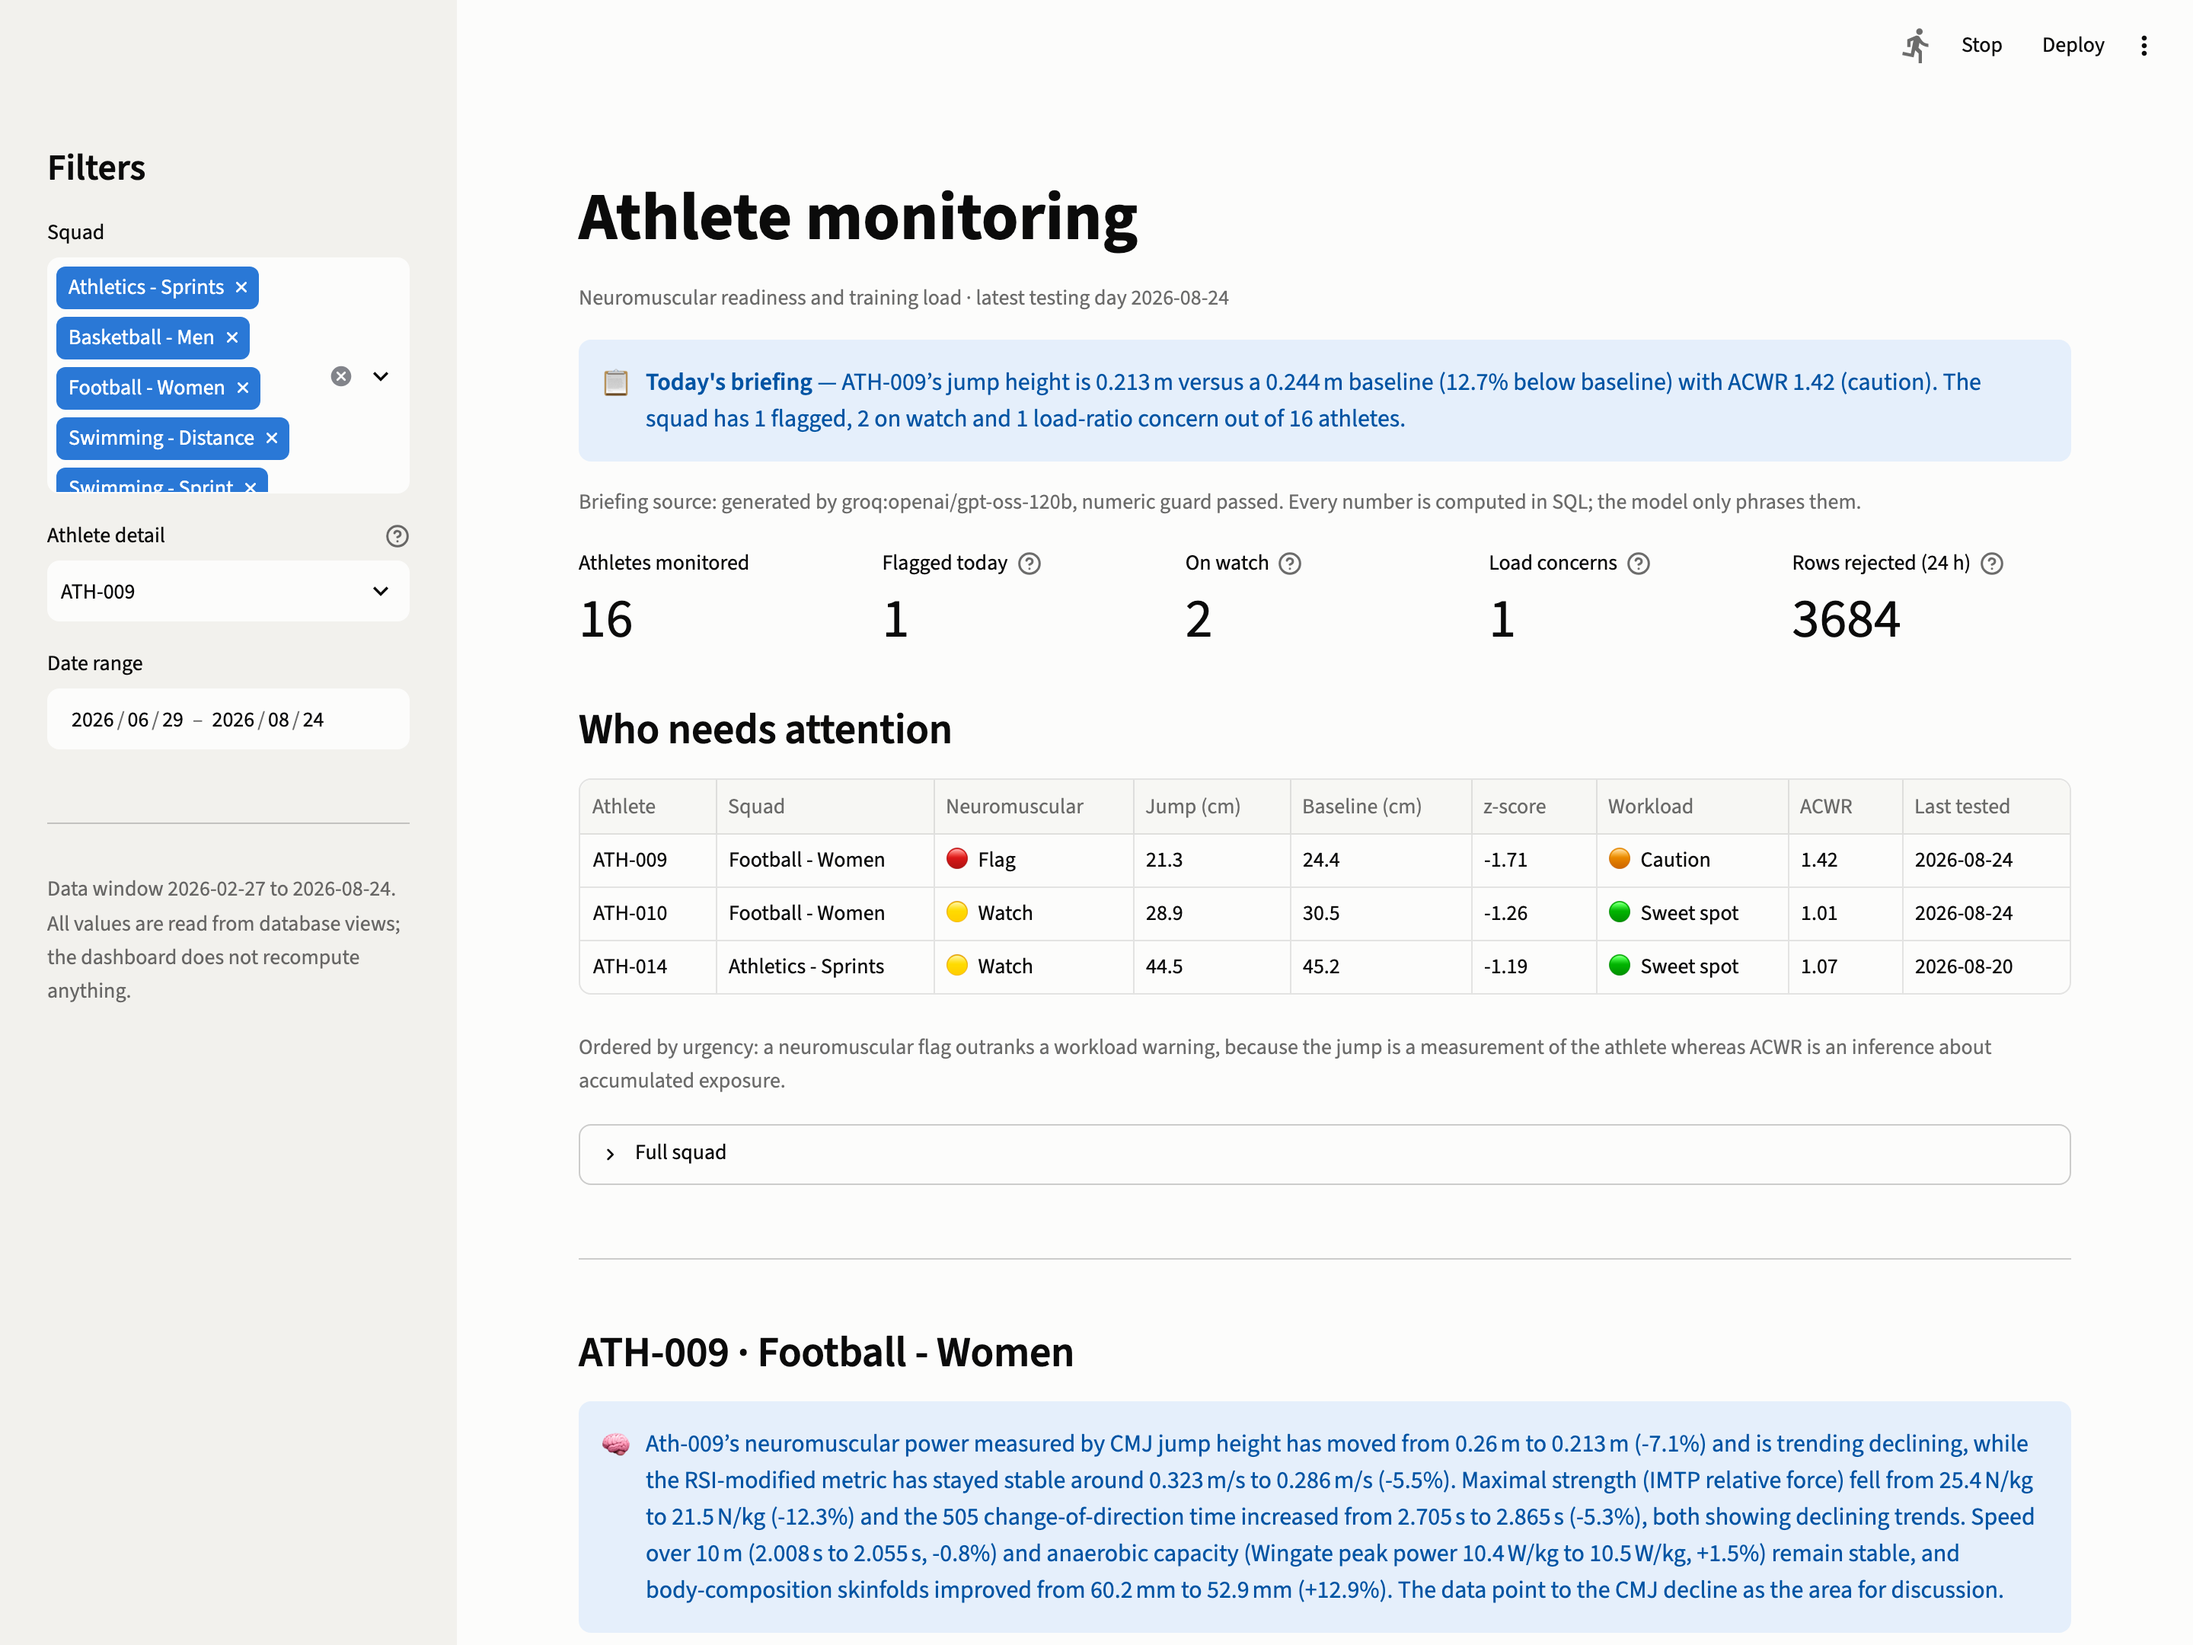
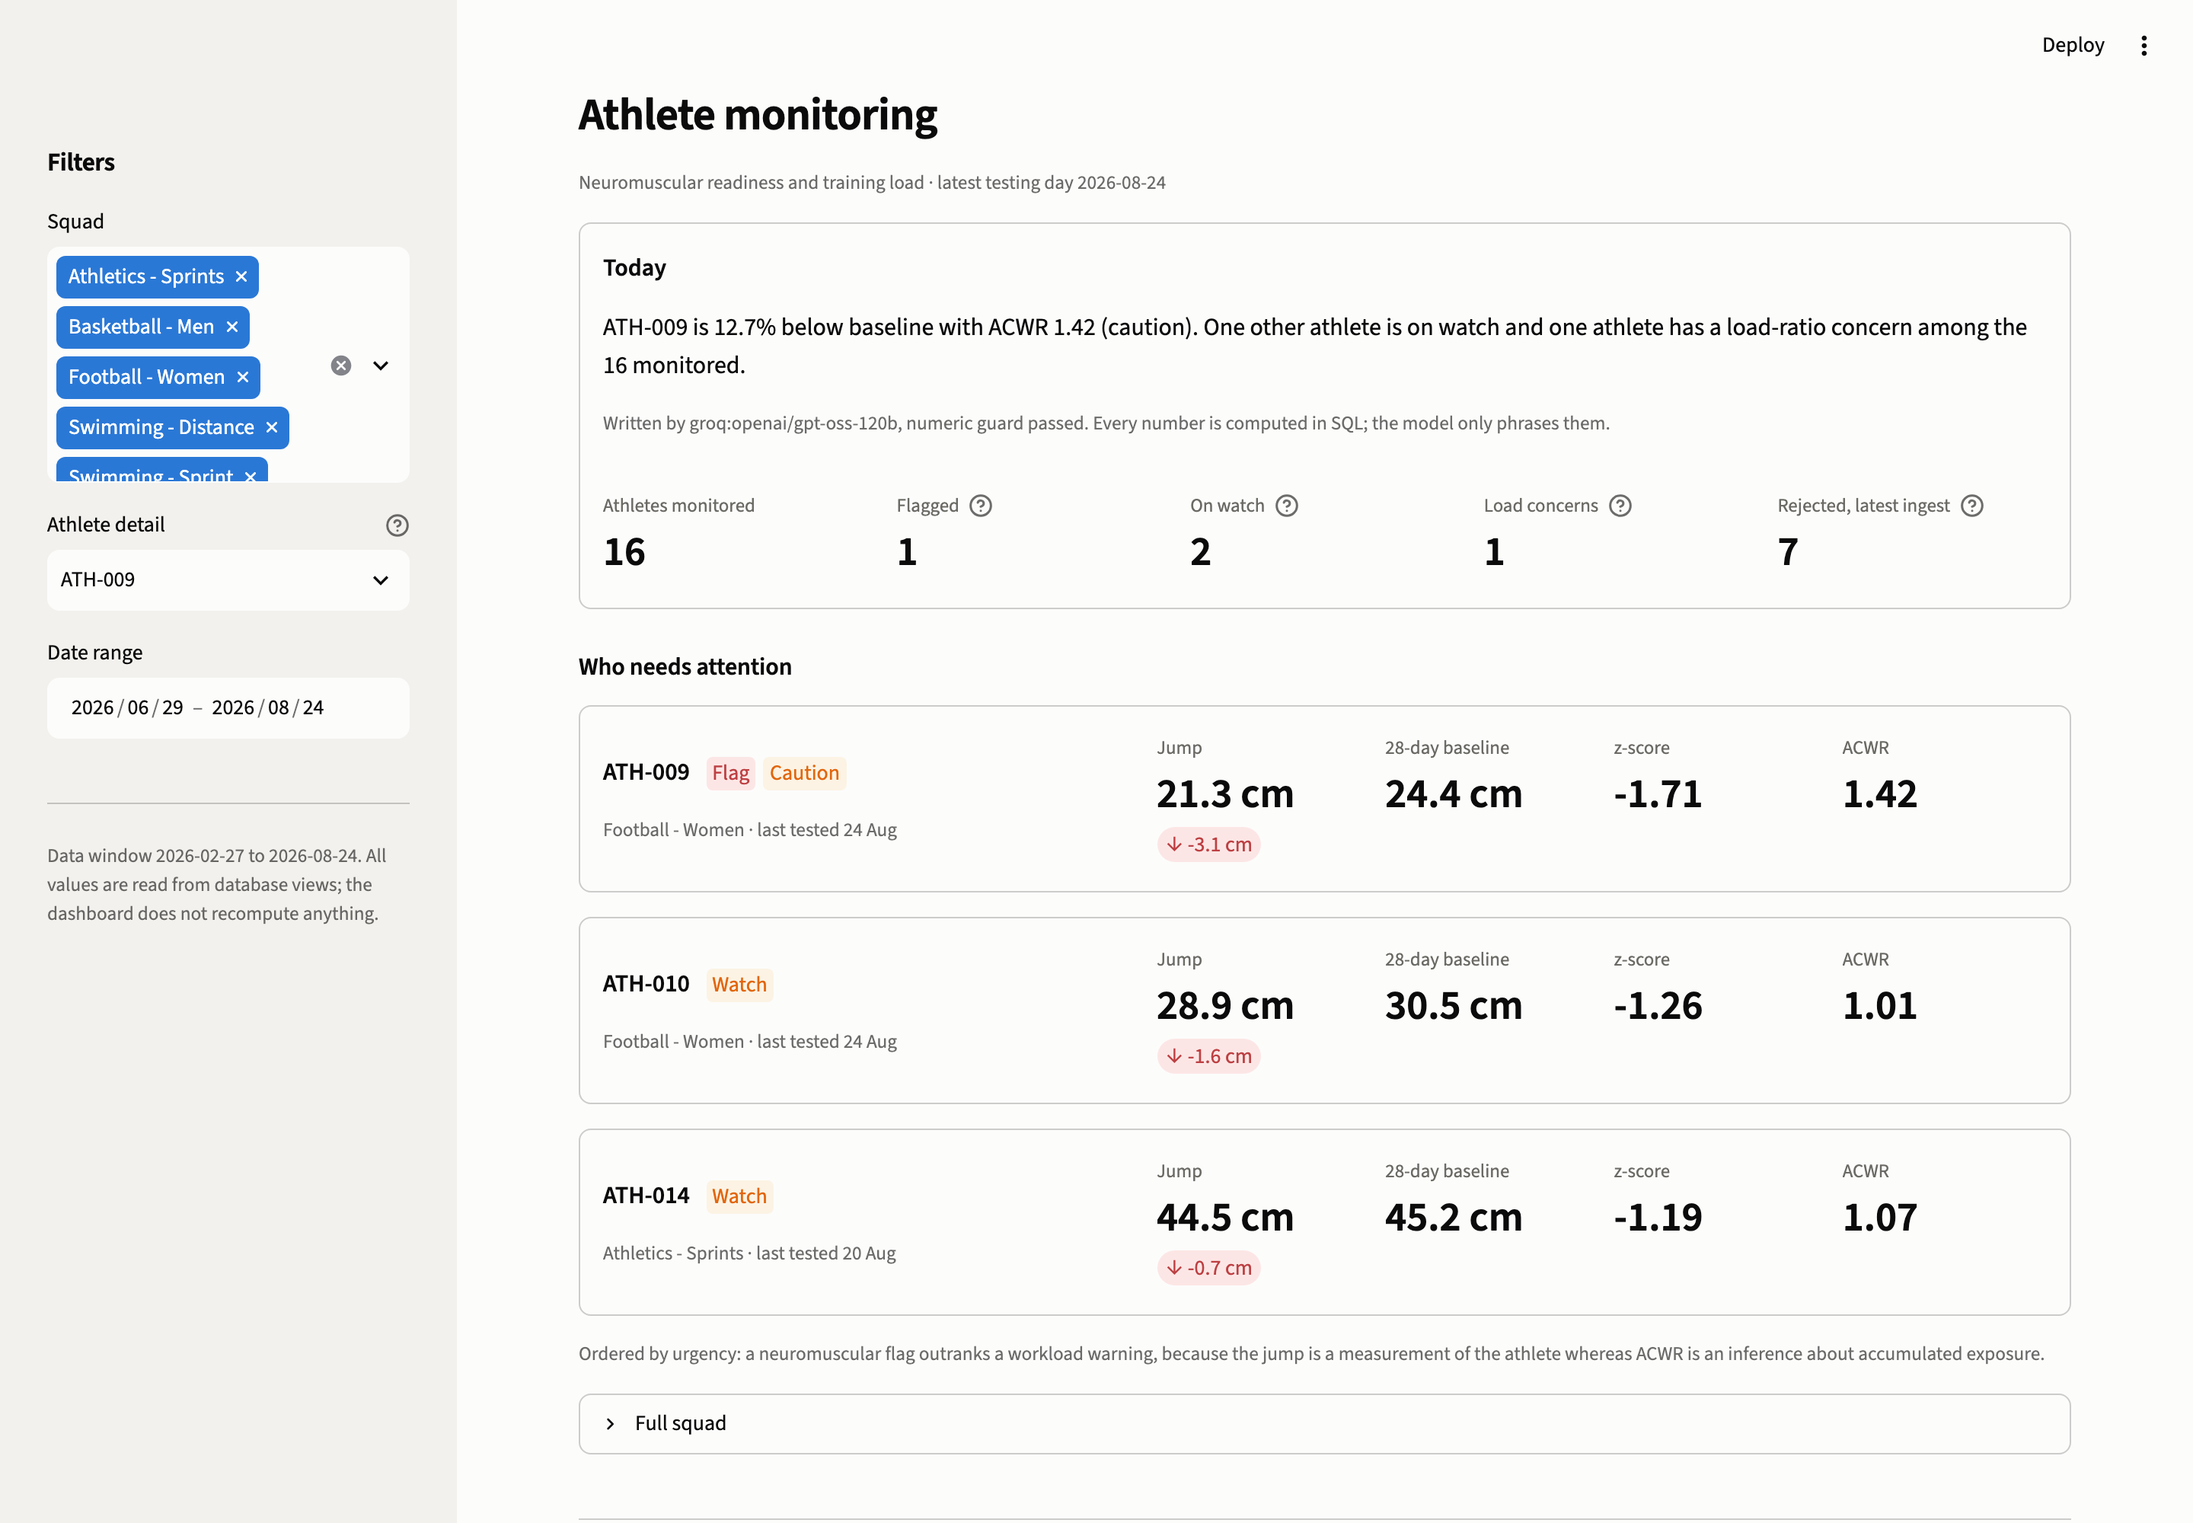
Dashboard design pass
Removed every emoji. Status is carried by Streamlit badges where markdown is
rendered and by coloured labels through a pandas Styler inside tables; the label
always carries the meaning and colour is a second channel. Alert icons are
Material symbols.

The attention queue was a dataframe grid for three to six rows. It is now a row
card per athlete: identity and status badges on the left, the four numbers as
metrics on the right, with the gap from baseline as a delta. Tables keep their
grid where they are actually long.

Briefing and development summary moved out of alert boxes into bordered cards.
Tightened the type scale; Streamlit's default h1 and vertical rhythm are built
for notebooks.

Number formatting: a single %g rendered a Yo-Yo distance as 1.4e+03 in the
middle of a coach-facing table. Values now format by magnitude, and empty cells
show a dash instead of None.

Two dashboard tests asserted which widget carried the briefing rather than what
the page said, so a purely visual change broke them. They now search the
rendered text.

diff --git a/tests/test_dashboard.py b/tests/test_dashboard.py
@@ -23,6 +23,22 @@ pytestmark = needs_db
 APP = Path(__file__).resolve().parents[1] / "app" / "streamlit_app.py"
 
 
+def all_text(at) -> str:
+    """Every string the page renders, whatever widget carried it.
+
+    These assertions used to name the widget -- at.info[0] for the briefing, a
+    caption starting "Briefing source". Moving the briefing from an alert box
+    into a card broke them without anything being wrong, so they check what the
+    page says rather than which container said it.
+    """
+    parts = []
+    for group in (at.markdown, at.caption, at.info, at.success, at.warning, at.error):
+        parts += [e.value for e in group]
+    for h in (at.title, at.header, at.subheader):
+        parts += [e.value for e in h]
+    return " ".join(parts)
+
+
 @pytest.fixture(scope="module")
 def app():
     from streamlit.testing.v1 import AppTest
@@ -39,17 +55,18 @@ def test_first_screen_answers_who_needs_attention(app):
     """The design constraint is that a coach gets the answer without scrolling,
     so the headline elements must actually be on the page."""
     labels = {m.label for m in app.metric}
-    assert {"Athletes monitored", "Flagged today", "On watch", "Load concerns"} <= labels
-    assert any("Who needs attention" in s.value for s in app.subheader)
-    assert app.info and "briefing" in app.info[0].value.lower()
+    assert {"Athletes monitored", "Flagged", "On watch", "Load concerns"} <= labels
+    text = all_text(app)
+    assert "Who needs attention" in text
+    assert "Today" in text, "the squad briefing is not on the first screen"
 
 
 def test_briefing_declares_its_own_provenance(app):
     """A coach must be able to tell a model-written sentence from a template one."""
-    badges = [c.value for c in app.caption if "Briefing source" in c.value]
-    assert badges, "the briefing does not say where it came from"
-    badge = badges[0]
-    assert ("numeric guard passed" in badge) or ("deterministic template" in badge)
+    text = all_text(app)
+    assert ("numeric guard passed" in text) or ("Deterministic template" in text), (
+        "the briefing does not say whether a model wrote it and whether it was checked"
+    )
 
 
 def test_dashboard_reads_metrics_rather_than_recomputing_them(app):
@@ -59,7 +76,7 @@ def test_dashboard_reads_metrics_rather_than_recomputing_them(app):
     status = squad_status()
     on_screen = {m.label: m.value for m in app.metric}
     assert on_screen["Athletes monitored"] == str(len(status))
-    assert on_screen["Flagged today"] == str((status["baseline_status"] == "flag").sum())
+    assert on_screen["Flagged"] == str((status["baseline_status"] == "flag").sum())
 
 
 def test_attention_ordering_puts_the_worst_case_first():
